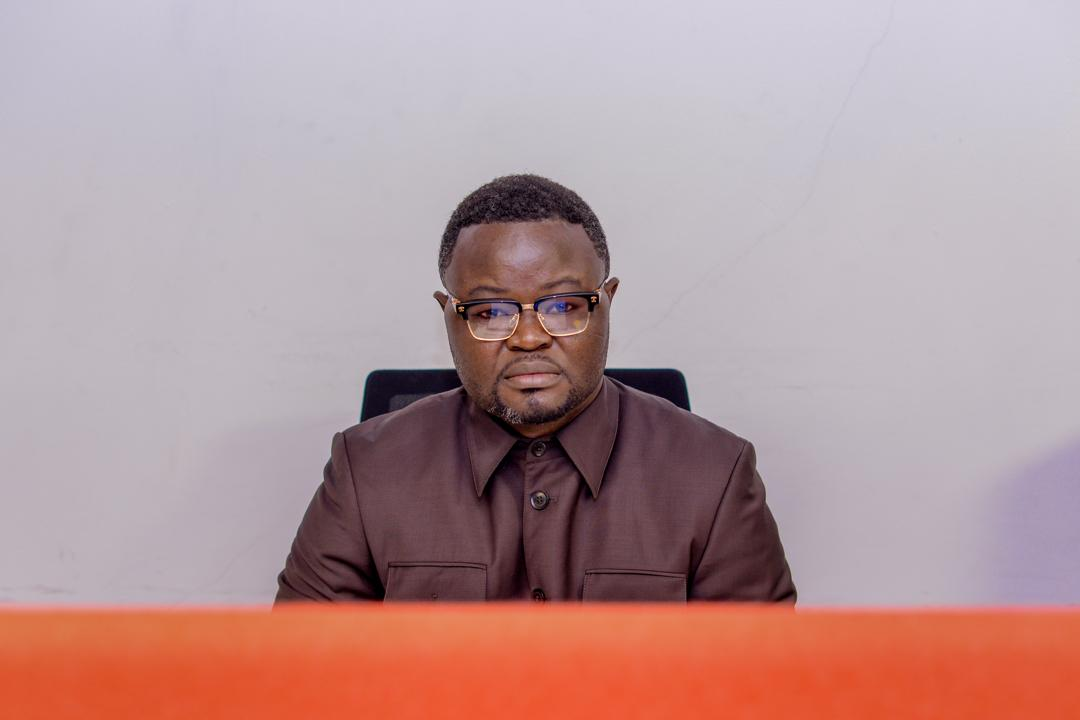
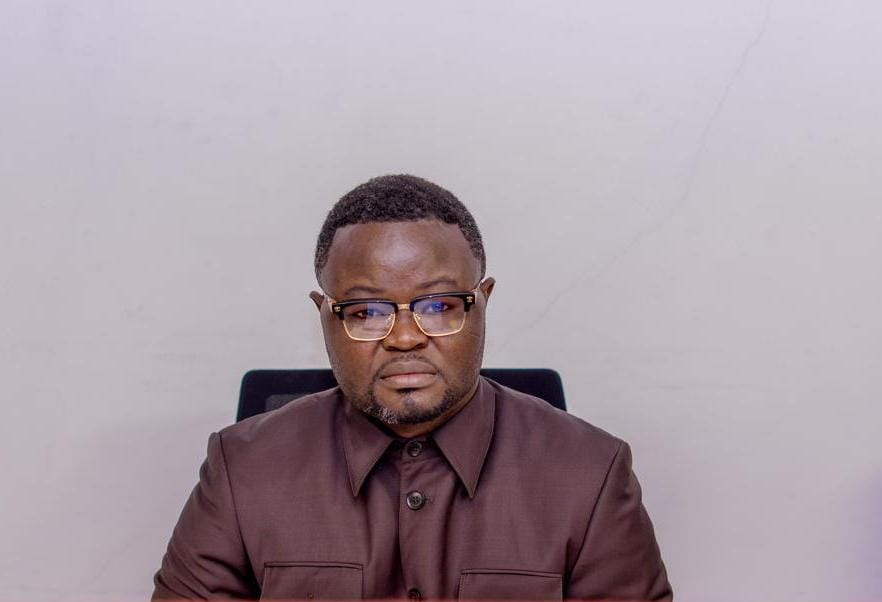
j'ai arrangé les photos et remplacer le y de guylain par i

diff --git a/index.html b/index.html
@@ -500,7 +500,7 @@
           <article class="team-card fade-up">
             <img src="assets/team/gl.jpeg" alt="Guylain KINVUKA">
             <div class="team-card-content">
-              <h3>Guylain KINVUKA</h3>
+              <h3>Guilain KINVUKA</h3>
               <div class="team-role">Chargé de la gestion administrative et fiscale.</div>
               <p>Titulaire d’un Master en Sciences Économiques et Administratives (IRD Congo/Kinshasa), Guilain bénéficie d’une décennie couvrant la comptabilité, l’audit et la fiscalité déclarative.
                 Avec une forte adaptabilité dans les environnements variés, son dynamisme et sa rigueur sont des atouts importants pour l’accompagnement des entreprises dans leur mise en conformité fiscale.